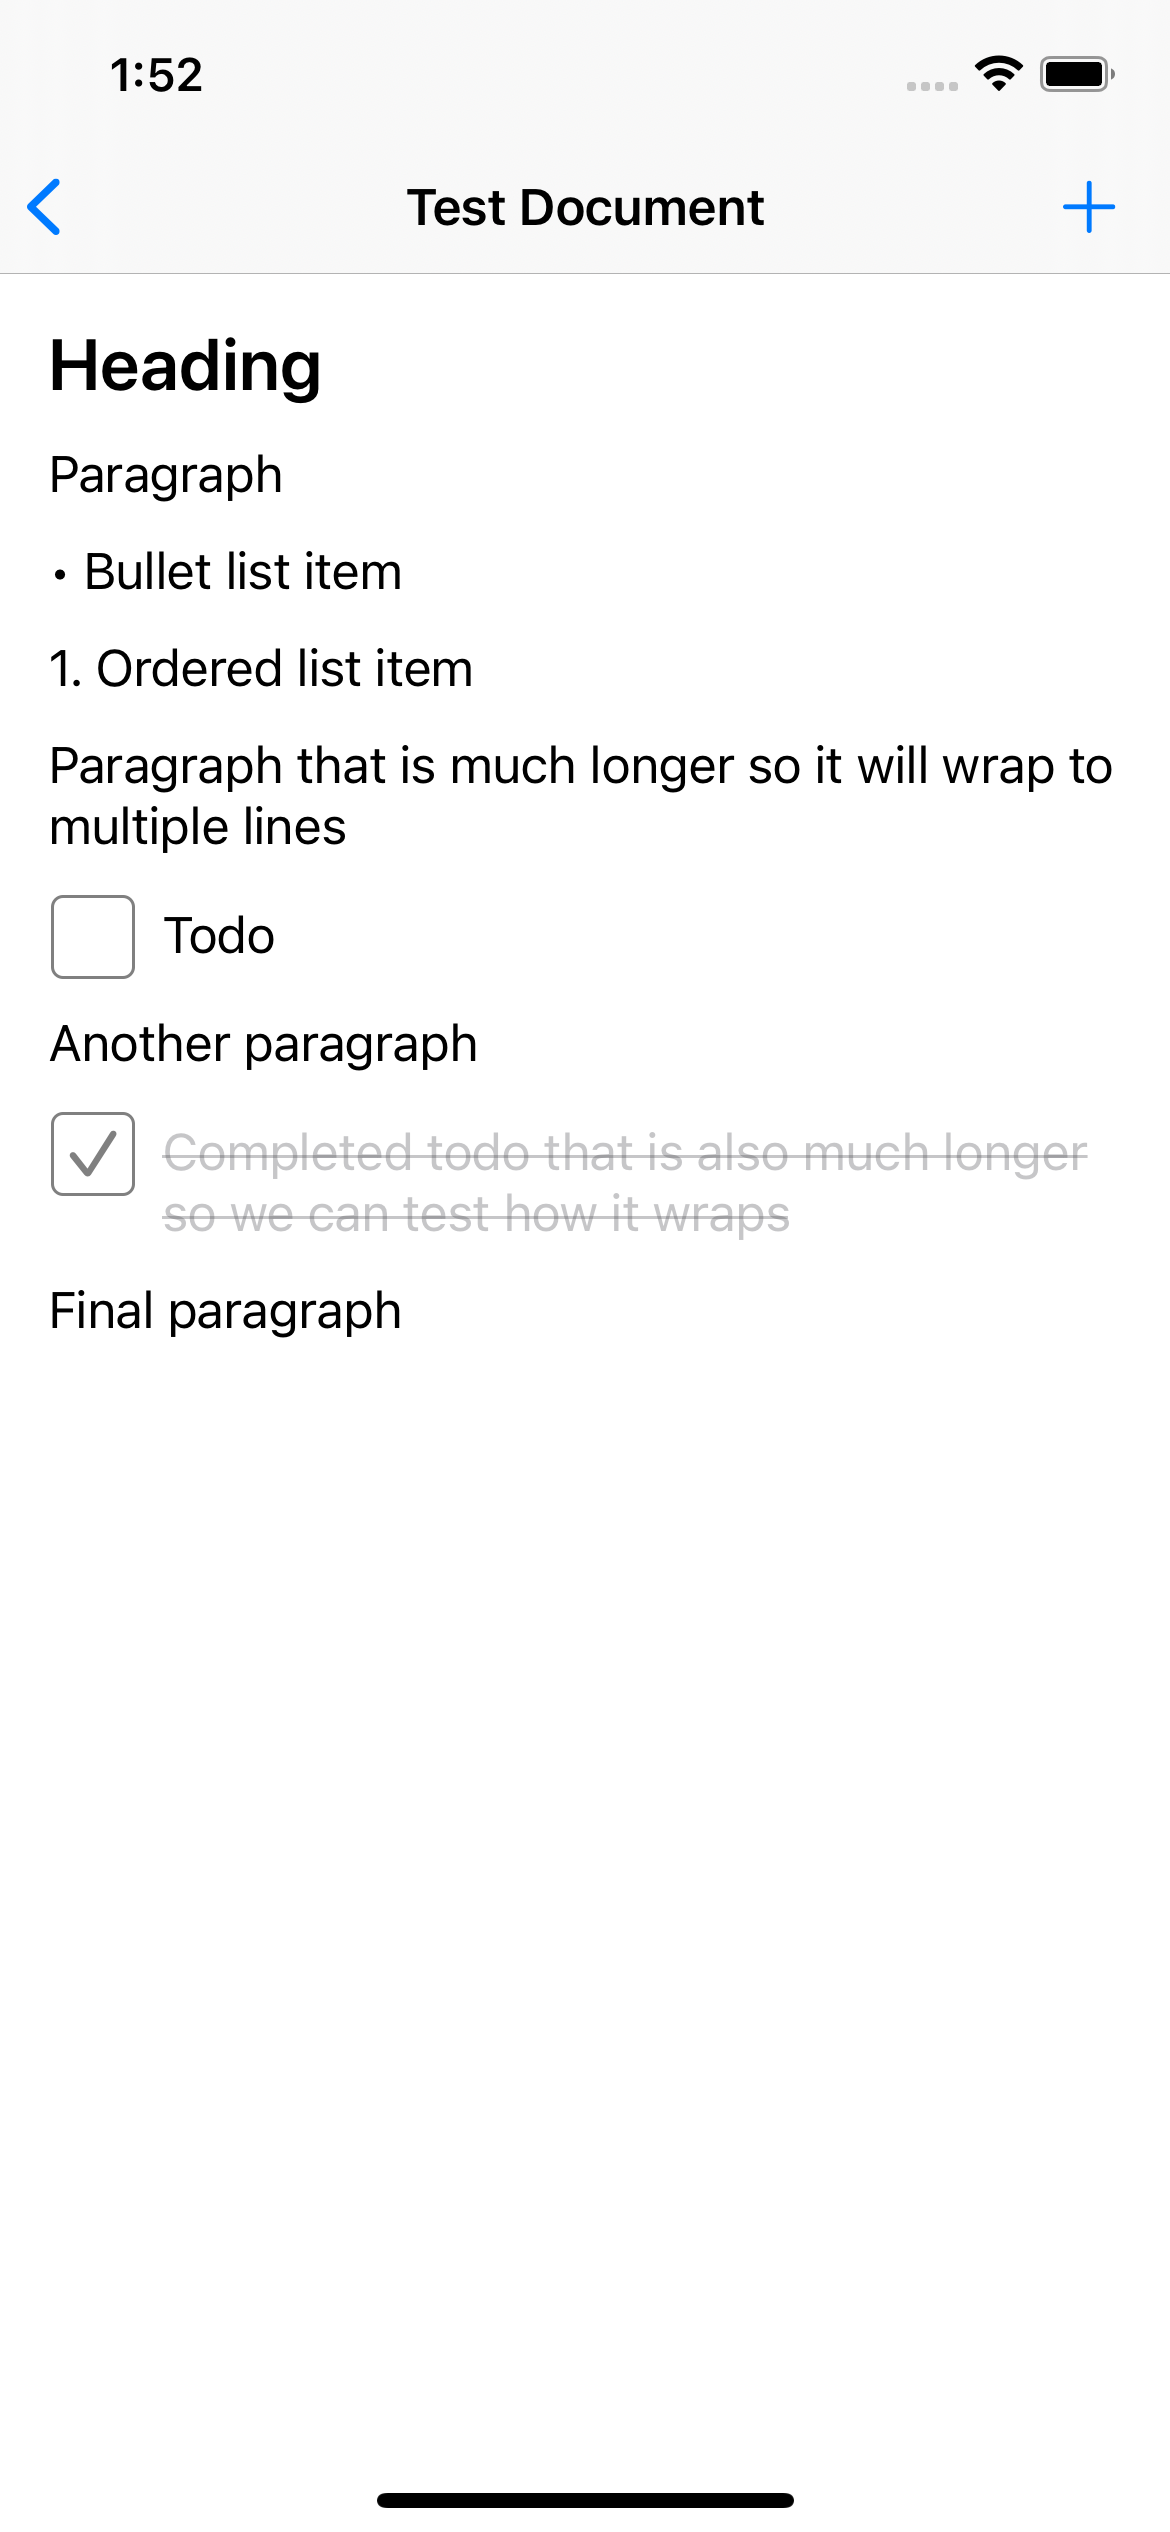
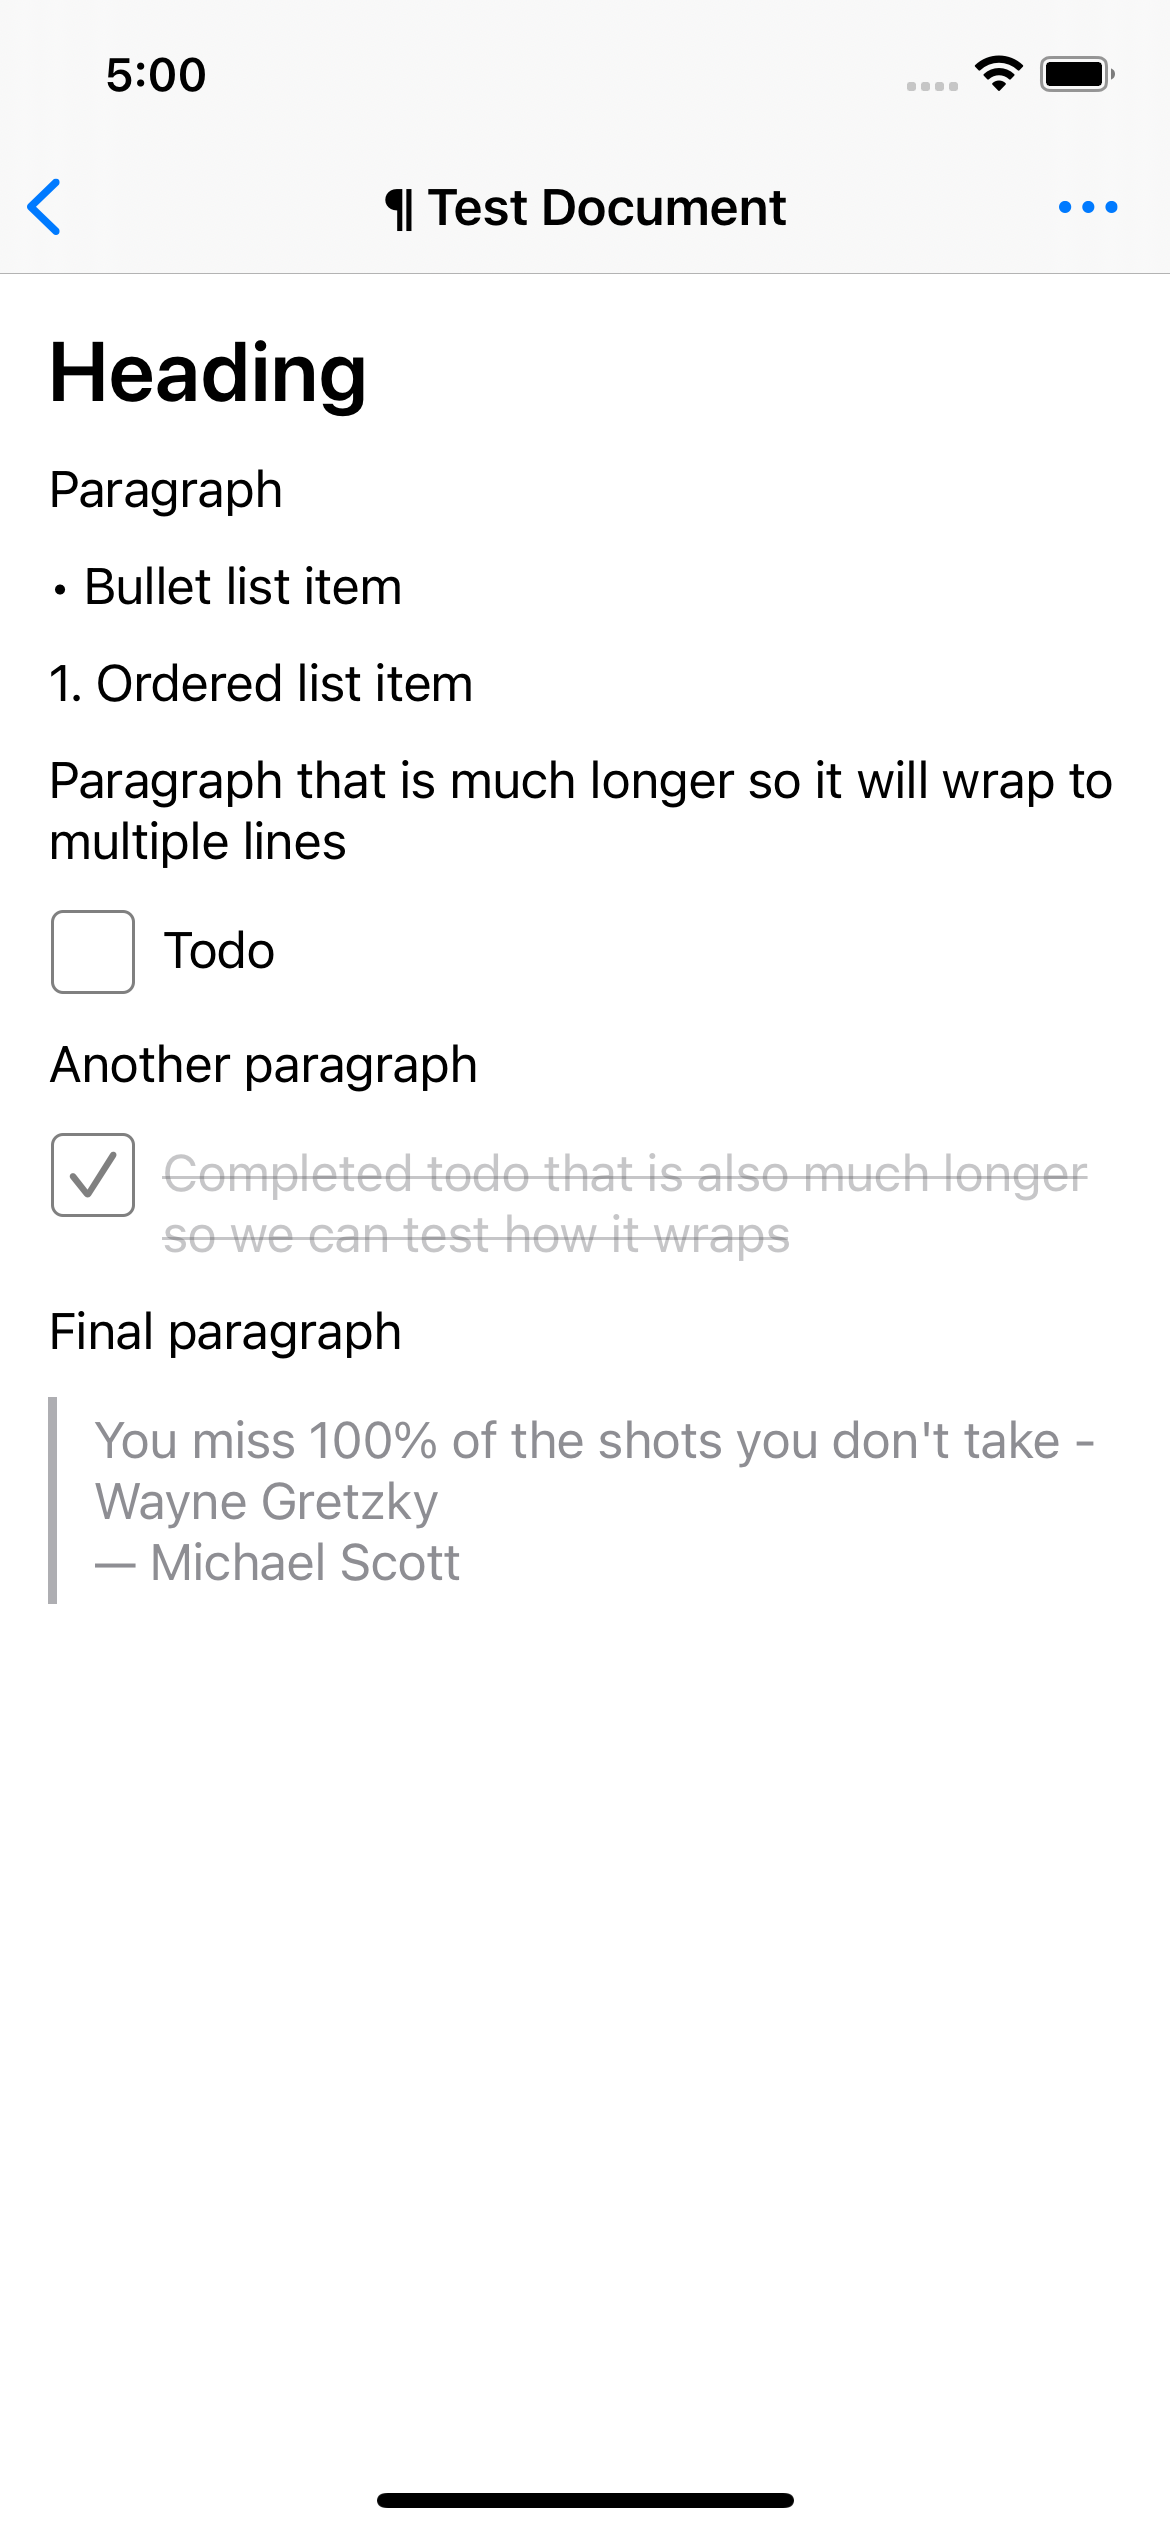
Add block quotes

diff --git a/Source/View Controllers/DocumentViewController.swift b/Source/View Controllers/DocumentViewController.swift
@@ -68,7 +68,7 @@ final class DocumentViewController: UIViewController {
     private func updateDataSource(animated: Bool = false) {
         var snapshot = NSDiffableDataSourceSnapshot<Section, Block>()
         snapshot.appendSections([.main])
-        snapshot.appendItems(document.blocks)        
+        snapshot.appendItems(document.blocks)
         dataSource.apply(snapshot, animatingDifferences: animated)
     }
     
@@ -127,9 +127,11 @@ final class DocumentViewController: UIViewController {
             return ListItemBlock(style: .bulleted).asBlock()
         case .numberedListItem:
             return ListItemBlock(style: .numbered).asBlock()
+        case .quote:
+            return QuoteBlock().asBlock()
         }
     }
-
+    
     // MARK: - Cells
     
     private func block(for cell: UICollectionViewCell) -> Block? {
@@ -145,6 +147,8 @@ final class DocumentViewController: UIViewController {
             return self.todoBlockCell(for: indexPath, content: content)
         case .listItem(let content):
             return self.listItemBlockCell(for: indexPath, content: content)
+        case .quote(let content):
+            return self.quoteBlockCell(for: indexPath, content: content)
         }
     }
     
@@ -168,6 +172,14 @@ final class DocumentViewController: UIViewController {
     private func listItemBlockCell(for indexPath: IndexPath, content: ListItemBlock) -> UICollectionViewCell {
         let cell = collectionView.dequeueReusableCell(ListItemBlockCellView.self, for: indexPath)
         let viewModel = ListItemBlockViewModel(content: content)
+        cell.configure(with: viewModel)
+        cell.delegate = self
+        return cell
+    }
+    
+    private func quoteBlockCell(for indexPath: IndexPath, content: QuoteBlock) -> UICollectionViewCell {
+        let cell = collectionView.dequeueReusableCell(QuoteBlockCellView.self, for: indexPath)
+        let viewModel = QuoteBlockViewModel(content: content)
         cell.configure(with: viewModel)
         cell.delegate = self
         return cell

diff --git a/Source/Views/Cells/QuoteBlockCellView.swift b/Source/Views/Cells/QuoteBlockCellView.swift
@@ -1,0 +1,45 @@
+import UIKit
+
+final class QuoteBlockCellView: BaseTextCellView {
+    override init(frame: CGRect) {
+        super.init(frame: frame)
+        setup()
+    }
+    
+    required init?(coder: NSCoder) {
+        fatalError("init(coder:) has not been implemented")
+    }
+    
+    func configure(with viewModel: QuoteBlockViewModel) {
+        quoteBorderView.backgroundColor = viewModel.borderColor
+        textView.textColor = viewModel.textColor
+        textView.font = viewModel.textFont
+        textView.text = viewModel.text
+    }
+    
+    private func setup() {
+        contentView.addSubview(quoteBorderView)
+        contentView.addSubview(textView)
+        
+        NSLayoutConstraint.activate([
+            quoteBorderView.leadingAnchor.constraint(equalTo: contentView.leadingAnchor, constant: Metrics.blockContentHorizontalPadding),
+            quoteBorderView.topAnchor.constraint(equalTo: contentView.topAnchor),
+            quoteBorderView.bottomAnchor.constraint(equalTo: contentView.bottomAnchor),
+            quoteBorderView.widthAnchor.constraint(equalToConstant: Metrics.quoteBorderWidth),
+            
+            textView.leadingAnchor.constraint(equalTo: quoteBorderView.trailingAnchor, constant: Metrics.quoteBorderSpacing),
+            textView.trailingAnchor.constraint(equalTo:  contentView.trailingAnchor, constant: -Metrics.blockContentHorizontalPadding),
+            textView.topAnchor.constraint(equalTo:  contentView.topAnchor, constant: Metrics.quoteContentVerticalPadding),
+            textView.bottomAnchor.constraint(equalTo:  contentView.bottomAnchor, constant: -Metrics.quoteContentVerticalPadding),
+        ])
+    }
+    
+    // MARK: - Views
+    
+    private let quoteBorderView: UIView = {
+        let view = UIView()
+        view.translatesAutoresizingMaskIntoConstraints = false
+        
+        return view
+    }()
+}

diff --git a/Source/Models/Document/Blocks/BlockKind.swift b/Source/Models/Document/Blocks/BlockKind.swift
@@ -4,6 +4,7 @@ enum BlockKind: CaseIterable {
     case heading, paragraph
     case todo
     case bulletedListItem, numberedListItem
+    case quote
     
     var title: String {
         switch self {
@@ -17,21 +18,25 @@ enum BlockKind: CaseIterable {
             return "Bulleted List"
         case .numberedListItem:
             return "Numbered List"
+        case .quote:
+            return "Quote"
         }
     }
     
     var image: UIImage? {
         switch self {
         case .heading:
-            return UIImage(systemName: "textformat.size", withConfiguration: nil)
+            return UIImage(systemName: "textformat.size")
         case .paragraph:
-            return UIImage(systemName: "paragraphsign", withConfiguration: nil)
+            return UIImage(systemName: "paragraphsign")
         case .todo:
-            return UIImage(systemName: "checkmark.square", withConfiguration: nil)
+            return UIImage(systemName: "checkmark.square")
         case .bulletedListItem:
-            return UIImage(systemName: "list.bullet", withConfiguration: nil)
+            return UIImage(systemName: "list.bullet")
         case .numberedListItem:
-            return UIImage(systemName: "list.number", withConfiguration: nil)
+            return UIImage(systemName: "list.number")
+        case .quote:
+            return UIImage(systemName: "text.quote")
         }
     }
     
@@ -47,6 +52,8 @@ enum BlockKind: CaseIterable {
             return ListItemBlockCellView.self
         case .numberedListItem:
             return ListItemBlockCellView.self
+        case .quote:
+            return QuoteBlockCellView.self
         }
     }
 }

diff --git a/Source/Models/Document/Blocks/Block.swift b/Source/Models/Document/Blocks/Block.swift
@@ -8,6 +8,7 @@ enum Block: Hashable {
     case text(TextBlock)
     case todo(TodoBlock)
     case listItem(ListItemBlock)
+    case quote(QuoteBlock)
     
     var content: BlockContent {
         switch self {
@@ -17,13 +18,15 @@ enum Block: Hashable {
             return content
         case .listItem(let content):
             return content
+        case .quote(let content):
+            return content
         }
     }
 }
 
 extension Block: Codable {
     private enum CodingKeys: CodingKey {
-        case text, todo, listItem
+        case text, todo, listItem, quote
     }
     
     init(from decoder: Decoder) throws {
@@ -35,6 +38,8 @@ extension Block: Codable {
             self = .todo(content)
         } else if let content = try container.decodeIfPresent(ListItemBlock.self, forKey: .listItem) {
             self = .listItem(content)
+        } else if let content = try container.decodeIfPresent(QuoteBlock.self, forKey: .quote) {
+            self = .quote(content)
         } else {
             throw BlockDecodingError.invalidData
         }
@@ -50,6 +55,8 @@ extension Block: Codable {
             try container.encode(content, forKey: .todo)
         case .listItem(let content):
             try container.encode(content, forKey: .listItem)
+        case .quote(let content):
+            try container.encode(content, forKey: .quote)
         }
     }
 }

diff --git a/Source/Views/Cells/TodoBlockCellView.swift b/Source/Views/Cells/TodoBlockCellView.swift
@@ -36,13 +36,13 @@ final class TodoBlockCellView: BaseTextCellView {
         contentView.addSubview(textView)
         
         NSLayoutConstraint.activate([
-            checkboxButton.leadingAnchor.constraint(equalTo: contentView.leadingAnchor, constant: Metrics.blockContentVerticalPadding),
+            checkboxButton.leadingAnchor.constraint(equalTo: contentView.leadingAnchor, constant: Metrics.blockContentHorizontalPadding),
             checkboxButton.topAnchor.constraint(equalTo: contentView.topAnchor),
             checkboxButton.heightAnchor.constraint(equalToConstant: Metrics.checkboxSize.height),
             checkboxButton.widthAnchor.constraint(equalToConstant: Metrics.checkboxSize.width),
 
             textView.leadingAnchor.constraint(equalTo: checkboxButton.trailingAnchor, constant: Metrics.checkboxTextContentSpacing),
-            textView.trailingAnchor.constraint(equalTo:  contentView.trailingAnchor, constant: -Metrics.blockContentVerticalPadding),
+            textView.trailingAnchor.constraint(equalTo:  contentView.trailingAnchor, constant: -Metrics.blockContentHorizontalPadding),
             textView.topAnchor.constraint(equalTo: checkboxButton.topAnchor, constant: Metrics.checkboxTextContentVerticalOffset),
             textView.bottomAnchor.constraint(equalTo:  contentView.bottomAnchor),
             

diff --git a/Source/Views/Cells/ListItemBlockCellView.swift b/Source/Views/Cells/ListItemBlockCellView.swift
@@ -22,10 +22,10 @@ final class ListItemBlockCellView: BaseTextCellView {
         
         NSLayoutConstraint.activate([
             listItemLabel.topAnchor.constraint(equalTo: contentView.topAnchor),
-            listItemLabel.leadingAnchor.constraint(equalTo: contentView.leadingAnchor, constant: Metrics.blockContentVerticalPadding),
+            listItemLabel.leadingAnchor.constraint(equalTo: contentView.leadingAnchor, constant: Metrics.blockContentHorizontalPadding),
             
             textView.leadingAnchor.constraint(equalTo: listItemLabel.trailingAnchor, constant: Metrics.listItemLabelContentSpacing),
-            textView.trailingAnchor.constraint(equalTo:  contentView.trailingAnchor, constant: -Metrics.blockContentVerticalPadding),
+            textView.trailingAnchor.constraint(equalTo:  contentView.trailingAnchor, constant: -Metrics.blockContentHorizontalPadding),
             textView.topAnchor.constraint(equalTo:  contentView.topAnchor),
             textView.bottomAnchor.constraint(equalTo:  contentView.bottomAnchor),
         ])

diff --git a/Source/Views/Cells/TextBlockCellView.swift b/Source/Views/Cells/TextBlockCellView.swift
@@ -19,8 +19,8 @@ final class TextBlockCellView: BaseTextCellView {
         contentView.addSubview(textView)
        
         NSLayoutConstraint.activate([
-            textView.leadingAnchor.constraint(equalTo: contentView.leadingAnchor, constant: Metrics.blockContentVerticalPadding),
-            textView.trailingAnchor.constraint(equalTo: contentView.trailingAnchor, constant: -Metrics.blockContentVerticalPadding),
+            textView.leadingAnchor.constraint(equalTo: contentView.leadingAnchor, constant: Metrics.blockContentHorizontalPadding),
+            textView.trailingAnchor.constraint(equalTo: contentView.trailingAnchor, constant: -Metrics.blockContentHorizontalPadding),
             textView.topAnchor.constraint(equalTo: contentView.topAnchor),
             textView.bottomAnchor.constraint(equalTo: contentView.bottomAnchor),
        ])

diff --git a/Source/Views/Metrics.swift b/Source/Views/Metrics.swift
@@ -7,7 +7,7 @@ enum Metrics {
     static let blockSpacing: CGFloat = 12
     
     /// Leading/trailing padding of content blocks
-    static let blockContentVerticalPadding: CGFloat = 16
+    static let blockContentHorizontalPadding: CGFloat = 16
     
     static let estimatedBlockHeight: CGFloat = 40
     static let listItemLabelContentSpacing: CGFloat = 4
@@ -17,4 +17,8 @@ enum Metrics {
     
     /// Offset so text view visually lines up with checkbox
     static let checkboxTextContentVerticalOffset: CGFloat = 4
+    
+    static let quoteBorderWidth: CGFloat = 3
+    static let quoteBorderSpacing: CGFloat = 12
+    static let quoteContentVerticalPadding: CGFloat = 4
 }

diff --git a/Source/View Models/QuoteBlockViewModel.swift b/Source/View Models/QuoteBlockViewModel.swift
@@ -1,0 +1,25 @@
+import UIKit
+
+struct QuoteBlockViewModel {
+    let content: QuoteBlock
+    
+    var text: String {
+        content.text
+    }
+    
+    var textColor: UIColor {
+        .systemGray
+    }
+    
+    var textFont: UIFont {
+        TextStyle.paragraph.font
+    }
+    
+    var borderColor: UIColor {
+        .systemGray2
+    }
+    
+    var borderWidth: CGFloat {
+        5
+    }
+}

diff --git a/Source/Models/Document/Document.swift b/Source/Models/Document/Document.swift
@@ -28,6 +28,7 @@ extension Document {
             TextBlock(text: "Another paragraph"),
             TodoBlock(text: "Completed todo that is also much longer so we can test how it wraps", completed: true),
             TextBlock(text: "Final paragraph"),
+            QuoteBlock(text: "You miss 100% of the shots you don't take - Wayne Gretzky\n— Michael Scott")
         ]
         
         return Document(

diff --git a/Source/Models/Document/Blocks/QuoteBlock.swift b/Source/Models/Document/Blocks/QuoteBlock.swift
@@ -1,0 +1,19 @@
+import Foundation
+
+struct QuoteBlock: Hashable, Identifiable, Codable, TextBlockContent {
+    let id: String
+    var text: String
+    
+    init(text: String = "") {
+        self.id = UUID().uuidString
+        self.text = text
+    }
+        
+    func asBlock() -> Block {
+        .quote(self)
+    }
+    
+    func empty() -> QuoteBlock {
+        QuoteBlock()
+    }
+}

diff --git a/README.md b/README.md
@@ -18,7 +18,7 @@ The core of the app is a `Document` composed of an array of `Block`s. Each `Bloc
 - [x] Todo
 - [x] Bulleted list item
 - [x] Numbered listed item
-- [ ] Blockquote
+- [x] Blockquote
 - [ ] Divider
 - [ ] Image
 - [ ] Attachment
